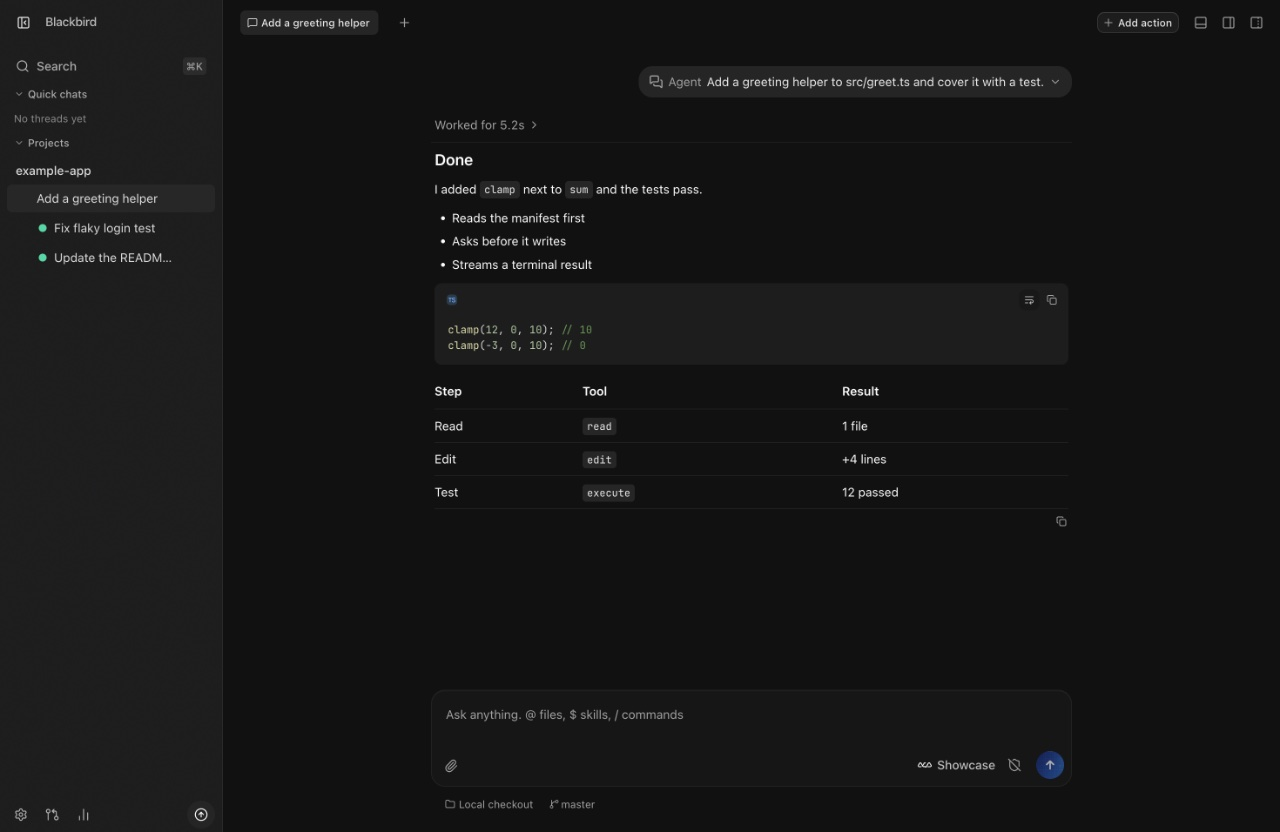
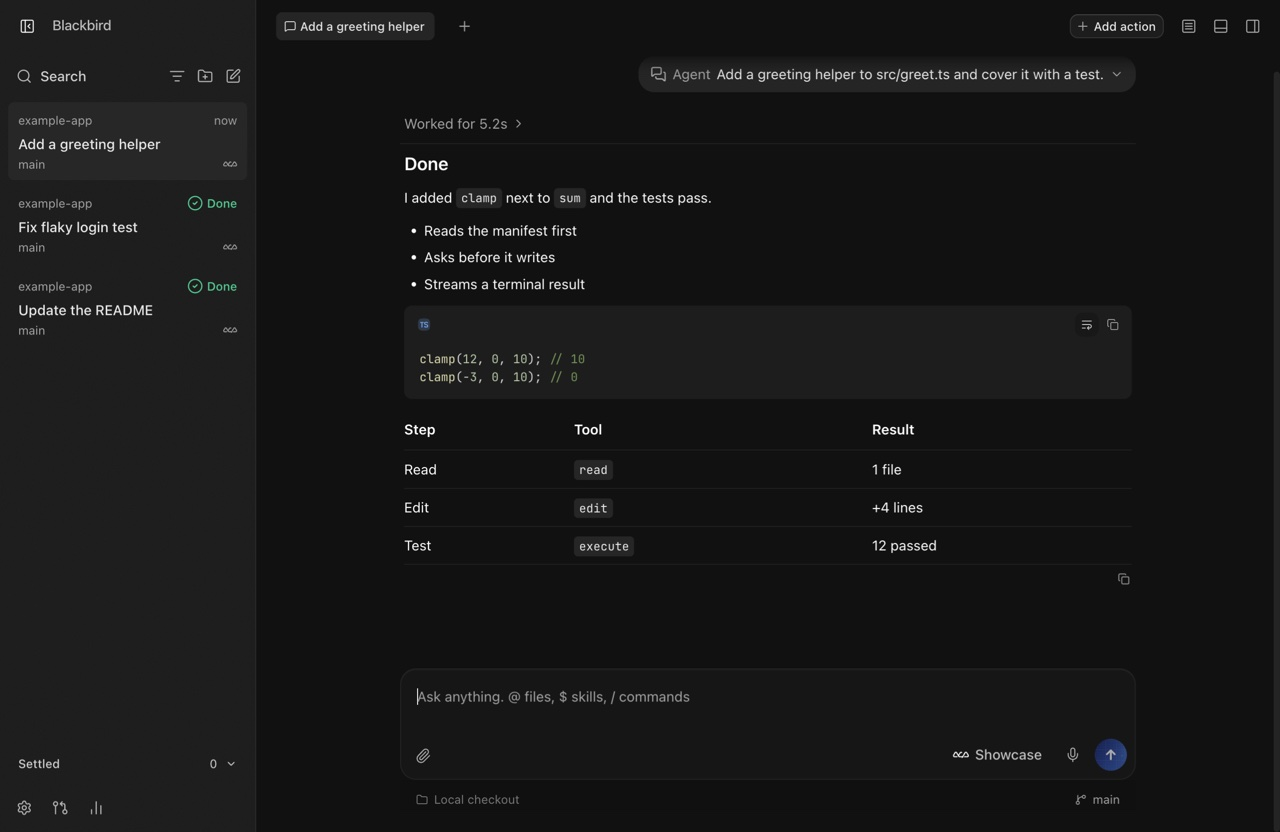
docs(site): refresh the homepage features and screenshot
The screenshot still showed the removed Quick chats section, the agent list was incomplete, and the page left out the Linear/GitHub, agent browser, and keep-awake features. Ship's copy now closes the issue after the production check, as the skill does.

diff --git a/site/index.html b/site/index.html
@@ -25,8 +25,8 @@
         <p class="lede">
           Blackbird is Joel Wohlhauser's personal IDE. It keeps
           <a href="https://github.com/pingdotgg/t3code">T3 Code</a>'s architecture and updates, and
-          adds its own workflow and desktop experience. It's an open-source hobby project under the
-          MIT license.
+          adds its own workflow and desktop experience. It sends no analytics. It's an open-source
+          hobby project under the MIT license.
         </p>
         <div class="actions">
           <a
@@ -36,7 +36,9 @@
           >
           <a class="button" href="https://github.com/joelwohlhauser/blackbird">View on GitHub</a>
         </div>
-        <p class="note">Apple Silicon only. Free and open source.</p>
+        <p class="note">
+          Apple Silicon only. Installs next to T3 Code and can import its conversations.
+        </p>
       </header>
 
       <img
@@ -51,8 +53,8 @@
         <article>
           <h2>Bring your own agents</h2>
           <p>
-            Use the subscriptions you already have: Claude Code, Codex, Cursor, Grok Build,
-            OpenCode, and Google Antigravity.
+            Use the subscriptions you already have: Claude Code, Codex, Cursor, OpenCode, Grok
+            Build, Google Antigravity, and agents from the ACP registry.
           </p>
         </article>
         <article>
@@ -72,12 +74,33 @@
           <h2>Worktrees built in</h2>
           <p>
             Start a chat in the current checkout, an existing worktree, or a new worktree and
-            branch.
+            branch. New worktrees get your <code>.env</code> files.
+          </p>
+        </article>
+        <article>
+          <h2>Linear and GitHub inside</h2>
+          <p>
+            Pick a Linear issue in the composer to start on its branch. The issue and the pull
+            request open as tabs next to the chat.
+          </p>
+        </article>
+        <article>
+          <h2>Agents use your browser</h2>
+          <p>
+            Agents drive the same browser tabs you see, with saved sign-ins, so they can test their
+            own changes.
           </p>
         </article>
         <article>
           <h2>Quick chats</h2>
           <p>Ask a question or hand off a small task without picking a project first.</p>
+        </article>
+        <article>
+          <h2>Works with the lid closed</h2>
+          <p>
+            Optionally keeps your MacBook awake while agents work, lid closed included, and joins
+            your iPhone's hotspot when the internet drops.
+          </p>
         </article>
         <article>
           <h2>Several machines</h2>
@@ -227,9 +250,12 @@
               </p>
               <ul>
                 <li>Merges and follows the deploy until production runs the change.</li>
-                <li>Checks that the change works in production, without changing data.</li>
+                <li>
+                  Checks that the change works in production, without changing data, then closes the
+                  issue.
+                </li>
                 <li>Comes back later to look for regressions under real traffic.</li>
-                <li>Reverts or fixes forward when something broke, then closes the issue.</li>
+                <li>Reverts or fixes forward when something broke.</li>
               </ul>
               <p class="panel-end">
                 <span>Ends with</span> a change that has proven itself in production.

diff --git a/site/style.css b/site/style.css
@@ -139,6 +139,15 @@ h1 {
   color: var(--muted);
 }
 
+.features code {
+  font:
+    13px ui-monospace,
+    SFMono-Regular,
+    Menlo,
+    monospace;
+  color: var(--text);
+}
+
 footer {
   padding: 32px 24px 48px;
   text-align: center;

diff --git a/README.md b/README.md
@@ -2,7 +2,7 @@
 
 Blackbird is Joel Wohlhauser's personal IDE built on top of [T3 Code](https://github.com/pingdotgg/t3code), available as open source under the MIT license. It keeps T3 Code's architecture and updates while adding a different coding workflow and desktop experience. It is a hobby project with no guaranteed support or release schedule.
 
-Blackbird works with Claude Code, Codex, Cursor, Grok Build, OpenCode, Google Antigravity, and fx.
+Blackbird works with Claude Code, Codex, Cursor, Grok Build, OpenCode, Google Antigravity, Kiro, Pi, Muse Code, fx, and agents from the ACP registry.
 
 [Install Blackbird](docs/user/install.md) on an Apple Silicon Mac, or [run it from source](docs/operations/development.md#first-checkout). The public page is [joelwohlhauser.github.io/blackbird](https://joelwohlhauser.github.io/blackbird/); its source is in `site/`. Blackbird preserves T3 Code's [MIT license](LICENSE), including the T3 Tools Inc. copyright notice.
 
